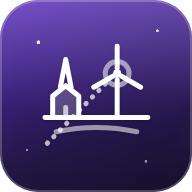
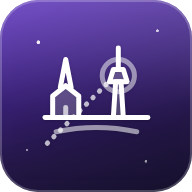
Add files via upload

Changed region(s): [[0.4375, 0.2188, 0.75, 0.625], [0.4062, 0.5625, 0.4375, 0.5938], [0.3438, 0.625, 0.375, 0.6562]]

diff --git a/hz-index.html b/hz-index.html
@@ -10,7 +10,7 @@
 <link rel="manifest" href="./manifest.json">
 <link rel="apple-touch-icon" href="./icon-180.png">
 <title>HorizontWahr</title>
-<meta name="description" content="HorizontWahr – Was ist das da hinten? Türme, Windräder, Kirchen, Orte und Berge im Kamerabild, mit Entfernung und Richtung.">
+<meta name="description" content="HorizontWahr – Was ist das da hinten? Türme, Kirchen, Mühlen, Orte und Berge im Kamerabild, mit Entfernung und Richtung.">
 <meta name="apple-mobile-web-app-capable" content="yes">
 <meta name="apple-mobile-web-app-status-bar-style" content="black-translucent">
 <meta name="apple-mobile-web-app-title" content="WahrZentrale">
@@ -170,7 +170,8 @@
   .hz-go{margin-left:4px;padding:6px 10px;font-size:12.5px}
   .hz-more{display:block;margin:10px auto 0}
   .hz-reset-row{display:flex;justify-content:flex-end;margin:-4px 0 12px}
-  .hz-reset-row .icon-btn{font-size:13.5px;font-weight:600;color:var(--sub-onbg)}</style>
+  .hz-reset-row .icon-btn{font-size:13.5px;font-weight:600;color:var(--sub-onbg)}
+  .hz-reset{margin:2px 0 12px}</style>
 <link rel="stylesheet" href="./wz-common.css">
 <link rel="stylesheet" href="./wz-unify.css">
 </head>
@@ -180,21 +181,22 @@
 <symbol id="wzi-home" viewBox="0 0 24 24"><path d="M4 11.5L12 4l8 7.5" fill="none" stroke="currentColor" stroke-width="1.8" stroke-linecap="round" stroke-linejoin="round"/><path d="M6 10.5V20h5v-5.5h2V20h5v-9.5" fill="none" stroke="currentColor" stroke-width="1.8" stroke-linejoin="round"/></symbol>
 <symbol id="wzi-close" viewBox="0 0 24 24"><g stroke="currentColor" stroke-width="2.2" stroke-linecap="round"><line x1="5" y1="5" x2="19" y2="19"/><line x1="19" y1="5" x2="5" y2="19"/></g></symbol>
 <symbol id="wzi-camera" viewBox="0 0 24 24"><g fill="none" stroke="currentColor" stroke-width="1.7" stroke-linejoin="round" stroke-linecap="round"><path d="M4 8.2h3.2L8.6 6h6.8l1.4 2.2H20v10.6H4z"/><circle cx="12" cy="13" r="3.3"/></g></symbol>
-<symbol id="wzi-horizon" viewBox="0 0 24 24"><g fill="none" stroke="currentColor" stroke-width="1.7" stroke-linecap="round" stroke-linejoin="round"><path d="M2.5 16.5h19"/><path d="M5 20c4.5-1 9.5-1 14 0" opacity=".6"/><path d="M7 16.5v-4l2-1.6 2 1.6v4M8.2 10.6L9 6.5l.8 4.1"/><path d="M16.5 16.5V9.5"/><circle cx="16.5" cy="8.6" r=".8" fill="currentColor" stroke="none"/><path d="M16.5 7.7V4M15.8 9.1l-3 1.7M17.2 9.1l3 1.7"/></g></symbol>
+<symbol id="wzi-horizon" viewBox="0 0 24 24"><g fill="none" stroke="currentColor" stroke-width="1.7" stroke-linecap="round" stroke-linejoin="round"><path d="M2.5 16.5h19"/><path d="M5 20c4.5-1 9.5-1 14 0" opacity=".6"/><path d="M6.5 16.5v-4l2-1.6 2 1.6v4M7.7 10.6l.8-4.1.8 4.1"/><path d="M16.5 16.5V9.6M15.6 9.6h1.8l-.9-4.1z"/><path d="M16.5 5.5V3"/><circle cx="16.5" cy="7.6" r="3" opacity=".5"/></g></symbol>
 <symbol id="wzi-radar" viewBox="0 0 24 24"><g fill="none" stroke="currentColor" stroke-width="1.7" stroke-linecap="round" stroke-linejoin="round"><circle cx="12" cy="12" r="9"/><circle cx="12" cy="12" r="5" opacity=".6"/><path d="M12 12l6-6"/><circle cx="15.5" cy="15" r="1" fill="currentColor" stroke="none"/><circle cx="8" cy="9" r="1" fill="currentColor" stroke="none"/></g></symbol>
 <symbol id="wzi-list" viewBox="0 0 24 24"><g fill="none" stroke="currentColor" stroke-width="1.7" stroke-linecap="round" stroke-linejoin="round"><path d="M9 6.5h11M9 12h11M9 17.5h11"/><circle cx="4.5" cy="6.5" r="1" fill="currentColor" stroke="none"/><circle cx="4.5" cy="12" r="1" fill="currentColor" stroke="none"/><circle cx="4.5" cy="17.5" r="1" fill="currentColor" stroke="none"/></g></symbol>
 <symbol id="wzi-info" viewBox="0 0 24 24"><g fill="none" stroke="currentColor" stroke-width="1.8" stroke-linecap="round" stroke-linejoin="round"><circle cx="12" cy="12" r="8.5"/><line x1="12" y1="11" x2="12" y2="16.5"/><circle cx="12" cy="7.7" r="1" fill="currentColor" stroke="none"/></g></symbol>
 <symbol id="wzi-lock" viewBox="0 0 24 24"><g fill="none" stroke="currentColor" stroke-width="1.7" stroke-linecap="round" stroke-linejoin="round"><rect x="5" y="10.5" width="14" height="10" rx="2"/><path d="M8 10.5V7a4 4 0 018 0v3.5"/><circle cx="12" cy="15" r="1.3" fill="currentColor" stroke="none"/></g></symbol>
 <symbol id="wzi-crosshair" viewBox="0 0 24 24"><g fill="none" stroke="currentColor" stroke-width="1.7" stroke-linecap="round" stroke-linejoin="round"><circle cx="12" cy="12" r="6.5"/><path d="M12 2.5v4M12 17.5v4M2.5 12h4M17.5 12h4"/><circle cx="12" cy="12" r=".9" fill="currentColor" stroke="none"/></g></symbol>
-<symbol id="wzi-turbine" viewBox="0 0 24 24"><g fill="none" stroke="currentColor" stroke-width="1.7" stroke-linecap="round" stroke-linejoin="round"><path d="M12 21V11"/><circle cx="12" cy="9.8" r="1.1"/><path d="M12 8.7V2.8M11 10.4l-5.2 3M13 10.4l5.2 3"/><path d="M9 21h6"/></g></symbol>
 <symbol id="wzi-tower" viewBox="0 0 24 24"><g fill="none" stroke="currentColor" stroke-width="1.7" stroke-linecap="round" stroke-linejoin="round"><path d="M9 21l1.6-11h2.8L15 21"/><path d="M10.2 13h3.6"/><rect x="9.6" y="6.5" width="4.8" height="3.5" rx=".8"/><path d="M12 6.5V2.5"/><path d="M7.5 21h9"/></g></symbol>
 <symbol id="wzi-church" viewBox="0 0 24 24"><g fill="none" stroke="currentColor" stroke-width="1.7" stroke-linecap="round" stroke-linejoin="round"><path d="M6 21v-7l6-4.5 6 4.5v7z"/><path d="M12 9.5V2.5M10 4.5h4"/><path d="M10.2 21v-3.6a1.8 1.8 0 0 1 3.6 0V21"/></g></symbol>
 <symbol id="wzi-peak" viewBox="0 0 24 24"><g fill="none" stroke="currentColor" stroke-width="1.7" stroke-linecap="round" stroke-linejoin="round"><path d="M2.5 20l6.5-11 3.5 5.5 2.5-3.5 6.5 9z"/><path d="M7.1 11.3l1.9 1.6 1.7-1.3" opacity=".7"/></g></symbol>
 <symbol id="wzi-lighthouse" viewBox="0 0 24 24"><g fill="none" stroke="currentColor" stroke-width="1.7" stroke-linecap="round" stroke-linejoin="round"><path d="M9 21l1.4-11h3.2L15 21"/><path d="M9.8 10h4.4M10 6.5h4v3.5h-4z"/><path d="M12 6.5V4.5M6 21h12"/><path d="M5 7.5l3-1M19 7.5l-3-1" opacity=".7"/></g></symbol>
 <symbol id="wzi-castle" viewBox="0 0 24 24"><g fill="none" stroke="currentColor" stroke-width="1.7" stroke-linecap="round" stroke-linejoin="round"><path d="M4 21V9h3v2h2.5V9h5v2H17V9h3v12z"/><path d="M10 21v-4a2 2 0 0 1 4 0v4"/><path d="M12 9V4l3 1.2-3 1.2" /></g></symbol>
 <symbol id="wzi-town" viewBox="0 0 24 24"><g fill="none" stroke="currentColor" stroke-width="1.7" stroke-linecap="round" stroke-linejoin="round"><path d="M3 21v-7l4-3 4 3v7M11 21V8.5l5-3.5 5 3.5V21"/><path d="M3 21h18"/><path d="M14.5 11h3M14.5 14.5h3" opacity=".7"/></g></symbol>
-<symbol id="wzi-chimney" viewBox="0 0 24 24"><g fill="none" stroke="currentColor" stroke-width="1.7" stroke-linecap="round" stroke-linejoin="round"><path d="M9 21l1.2-15h3.6L15 21"/><path d="M10 9.5h4M9.6 15h4.8" opacity=".7"/><path d="M13 4c1-1.5 3-1.2 3.5-2.5" opacity=".6"/><path d="M7 21h10"/></g></symbol>
-<symbol id="wzi-watertower" viewBox="0 0 24 24"><g fill="none" stroke="currentColor" stroke-width="1.7" stroke-linecap="round" stroke-linejoin="round"><path d="M7.5 8.5a4.5 3 0 0 0 9 0V6.5h-9z"/><path d="M7.5 6.5l4.5-3 4.5 3"/><path d="M10 11.2L9 21M14 11.2l1 9.8M9.6 16h4.8"/></g></symbol>
+<symbol id="wzi-mill" viewBox="0 0 24 24"><g fill="none" stroke="currentColor" stroke-width="1.7" stroke-linecap="round" stroke-linejoin="round"><path d="M9 21l1.2-8.5h3.6L15 21"/><path d="M8.5 21h7"/><circle cx="12" cy="10" r="1"/><path d="M12 10L7 5M12 10l5-5M12 10l-5 5M12 10l5 5" /><path d="M7 5l-1.4 1.4M17 5l1.4 1.4" opacity=".7"/></g></symbol>
+<symbol id="wzi-viewpoint" viewBox="0 0 24 24"><g fill="none" stroke="currentColor" stroke-width="1.7" stroke-linecap="round" stroke-linejoin="round"><path d="M3 20.5h18"/><path d="M5 20.5l5-8 3 4 2-2.5 4 6.5"/><circle cx="16.5" cy="6.5" r="2.5"/><path d="M16.5 2.5v1M20.5 6.5h-1M13.5 4l.7.7" opacity=".7"/></g></symbol>
+<symbol id="wzi-landmark" viewBox="0 0 24 24"><g fill="none" stroke="currentColor" stroke-width="1.7" stroke-linecap="round" stroke-linejoin="round"><path d="M12 3l1.9 3.9 4.3.6-3.1 3 .7 4.3-3.8-2-3.8 2 .7-4.3-3.1-3 4.3-.6z"/><path d="M6 21h12M8 21v-3h8v3"/></g></symbol>
+<symbol id="wzi-highrise" viewBox="0 0 24 24"><g fill="none" stroke="currentColor" stroke-width="1.7" stroke-linecap="round" stroke-linejoin="round"><path d="M5 21V8l5-3v16M10 21V3.5l6 3V21M16 21v-9h3v9"/><path d="M3 21h18"/><path d="M7 11h1M7 14h1M12.5 8h1M12.5 11h1M12.5 14h1" opacity=".7"/></g></symbol>
 <symbol id="wzi-refresh" viewBox="0 0 24 24"><g fill="none" stroke="currentColor" stroke-width="1.7" stroke-linecap="round" stroke-linejoin="round"><path d="M19.5 12a7.5 7.5 0 1 1-2.2-5.3"/><path d="M19.5 4v4.5H15"/></g></symbol>
 <symbol id="wzi-warning" viewBox="0 0 24 24"><g fill="none" stroke="currentColor" stroke-width="1.8" stroke-linejoin="round" stroke-linecap="round"><path d="M12 3.5L21.5 20h-19z"/><line x1="12" y1="9.2" x2="12" y2="14.2"/><circle cx="12" cy="17" r="0.9" fill="currentColor" stroke="none"/></g></symbol>
 <symbol id="wzi-compass" viewBox="0 0 24 24"><circle cx="12" cy="12" r="9" fill="none" stroke="currentColor" stroke-width="1.6"/><path d="M15.5 8.5l-2.2 5.2-5.2 2.2 2.2-5.2z" fill="currentColor"/><circle cx="12" cy="12" r="1.1" fill="var(--wzi-bg,#fff)"/></symbol>
@@ -208,7 +210,7 @@
   <header class="wz-hero">
     <div class="logo-badge"><img class="wz-logo-light" src="./hz-icon-192.png" alt="HorizontWahr Logo" width="84" height="84" decoding="sync" fetchpriority="high"></div>
     <h1>HorizontWahr</h1>
-    <p>Was ist das da hinten? Türme, Windräder, Kirchen, Orte und Berge – mit Entfernung und Richtung.</p>
+    <p>Was ist das da hinten? Türme, Kirchen, Mühlen, Orte und Berge – mit Entfernung und Richtung.</p>
   </header>
 
   <div class="tabs" role="tablist">
@@ -231,7 +233,7 @@
       </div>
       <h3>Was soll erscheinen?</h3>
       <div class="chip-row" id="hzCats" aria-label="Arten"></div>
-      <div class="hz-reset-row"><button type="button" class="icon-btn" id="hzReset"><svg class="wzi" aria-hidden="true"><use href="#wzi-refresh"></use></svg> Auswahl zurücksetzen</button></div>
+      <button type="button" class="cta slim hz-reset" id="hzReset"><svg class="wzi" aria-hidden="true"><use href="#wzi-close"></use></svg> Auswahl zurücksetzen</button>
       <button class="cta primary" id="hzLoad"><svg class="wzi" aria-hidden="true"><use href="#wzi-refresh"></use></svg> Umgebung laden</button>
       <p class="muted small" id="hzStatus" role="status" style="margin:10px 0 0"></p>
     </div>
@@ -480,19 +482,23 @@ function camStop(stream, video){
   function toast(t){ if(window.wzToast) wzToast(t); }
 
   var CATS = [
-    { id: "turm", name: "Türme & Masten", ic: "tower", col: "#B9A6F5" },
-    { id: "wind", name: "Windräder", ic: "turbine", col: "#E6DDF7" },
+    { id: "turm", name: "Türme", ic: "tower", col: "#B9A6F5" },
     { id: "kirche", name: "Kirchen", ic: "church", col: "#FFD27A" },
     { id: "ort", name: "Orte", ic: "town", col: "#8E75F0" },
     { id: "berg", name: "Berge & Hügel", ic: "peak", col: "#C3B2F0" },
     { id: "leucht", name: "Leuchttürme", ic: "lighthouse", col: "#FFE7A8" },
-    { id: "burg", name: "Burgen & Schlösser", ic: "castle", col: "#D8CCFA" }
+    { id: "burg", name: "Burgen & Schlösser", ic: "castle", col: "#D8CCFA" },
+    { id: "muehle", name: "Mühlen", ic: "mill", col: "#E6DDF7" },
+    { id: "aussicht", name: "Aussichtspunkte", ic: "viewpoint", col: "#FFE7A8" },
+    { id: "sehens", name: "Sehenswürdigkeiten", ic: "landmark", col: "#FFD27A" },
+    { id: "hoch", name: "Hochhäuser & Flughäfen", ic: "highrise", col: "#C3B2F0" }
   ];
   var CAT = {}; CATS.forEach(function(c){ CAT[c.id] = c; });
 
   var cfg = load(LS_CFG, {}) || {};
   if([5, 10, 20, 30].indexOf(cfg.r) === -1) cfg.r = 10;
-  if(!Array.isArray(cfg.cats)) cfg.cats = ["turm", "wind", "kirche", "ort", "berg", "leucht", "burg"];
+  if(!Array.isArray(cfg.cats)) cfg.cats = [];
+  cfg.cats = cfg.cats.filter(function(id, i, a){ return CAT[id] && a.indexOf(id) === i; });
   if(!cfg.cal) cfg.cal = { yaw: 0, fov: 68 };
   if(!(cfg.eye > 0)) cfg.eye = 1.6;
   function saveCfg(){ save(LS_CFG, cfg); }
@@ -522,9 +528,9 @@ function camStop(stream, video){
     saveCfg(); paintCats(); renderRadar(); if(current === "liste") renderList();
   });
   paintCats();
-  /* Auswahl auf den Anfangszustand zurücksetzen (Umkreis 10 km, alle Arten) */
+  /* Auswahl auf den Anfangszustand zurücksetzen (Umkreis 10 km, keine Art gewählt) */
   $("hzReset").addEventListener("click", function(){
-    cfg.r = 10; cfg.cats = CATS.map(function(c){ return c.id; }); saveCfg();
+    cfg.r = 10; cfg.cats = []; saveCfg();
     paintRadius(); paintCats(); renderRadar(); if(current === "liste") renderList();
     toast("Auswahl zurückgesetzt");
   });
@@ -539,7 +545,7 @@ function camStop(stream, video){
   function enrich(){
     if(!data) return [];
     var g0 = data.own != null ? data.own : 0, eyeAbs = g0 + eye();
-    return data.items.filter(function(it){ return cfg.cats.indexOf(it.c) !== -1; }).map(function(it){
+    return data.items.filter(function(it){ return CAT[it.c] && it.t !== "Sendemast" && cfg.cats.indexOf(it.c) !== -1; }).map(function(it){
       var d = Math.max(1, hav(data.lat, data.lon, it.la, it.lo)), az = bear(data.lat, data.lon, it.la, it.lo);
       var g = it.c === "berg" && it.x != null ? it.x : (it.e != null ? it.e : g0), h = it.h || 0, drop = d * d / (2 * REFF);
       return { it: it, d: d, az: az, altTop: Math.atan2(g + h - eyeAbs - drop, d) / D2R, altBase: Math.atan2(g - eyeAbs - drop, d) / D2R, hid: hiddenAt(d), g: g };
@@ -550,21 +556,27 @@ function camStop(stream, video){
   function q(r, la, lo){
     var a = "(around:" + r + "," + la.toFixed(5) + "," + lo.toFixed(5) + ")", parts = [];
     var C = {
-      turm: '(nwr["man_made"="tower"]["tower:type"!~"^(lighting|cooling|minaret)$"]' + a + ';nwr["man_made"="mast"]["tower:type"="communication"]' + a + ';nwr["man_made"="water_tower"]' + a + ';nwr["man_made"="chimney"]' + a + ';);out center 250;',
-      wind: 'nwr["power"="generator"]["generator:source"="wind"]' + a + ';out center 500;',
+      turm: '(nwr["man_made"="tower"]["tower:type"!~"^(lighting|cooling|minaret|observation)$"]' + a + ';nwr["man_made"="water_tower"]' + a + ';nwr["man_made"="chimney"]' + a + ';);out center 250;',
       kirche: '(nwr["building"="church"]' + a + ';nwr["building"="cathedral"]' + a + ';);out center 250;',
       ort: '(node["place"="city"]' + a + ';node["place"="town"]' + a + ';node["place"="village"]' + a + ';);out 300;',
       berg: '(node["natural"="peak"]' + a + ';node["natural"="hill"]' + a + ';);out 150;',
       leucht: 'nwr["man_made"="lighthouse"]' + a + ';out center 60;',
-      burg: 'nwr["historic"="castle"]' + a + ';out center 100;'
+      burg: 'nwr["historic"="castle"]' + a + ';out center 100;',
+      muehle: '(nwr["man_made"="windmill"]' + a + ';nwr["man_made"="watermill"]' + a + ';);out center 120;',
+      aussicht: '(nwr["man_made"="tower"]["tower:type"="observation"]' + a + ';node["tourism"="viewpoint"]' + a + ';);out center 120;',
+      sehens: '(nwr["tourism"="attraction"]' + a + ';nwr["historic"="monument"]' + a + ';);out center 150;',
+      hoch: '(nwr["height"~"^([4-9][0-9]|[1-9][0-9][0-9])([.,][0-9]+)?( ?m)?$"]["building"]' + a + ';nwr["aeroway"="aerodrome"]' + a + ';);out center 150;'
     };
     CATS.forEach(function(c){ if(cfg.cats.indexOf(c.id) !== -1) parts.push(C[c.id]); });
-    return "[out:json][timeout:40];" + parts.join("");
+    return "[out:json][timeout:25];" + parts.join("");
   }
   function hnum(v){ if(v == null) return null; var m = String(v).replace(",", ".").match(/[0-9]+(\.[0-9]+)?/); if(!m) return null; var n = parseFloat(m[0]); if(/ft|'/.test(String(v))) n *= 0.3048; return n > 0 && n < 900 ? n : null; }
   function classify(el){
     var t = el.tags || {}, mm = t.man_made, tt = t["tower:type"];
-    if(t.power === "generator") return { c: "wind", t: "Windrad", dh: 150 };
+    if(t.aeroway === "aerodrome") return { c: "hoch", t: /international|public/i.test(t["aerodrome:type"] || "") || t.iata ? "Flughafen" : "Flugplatz", dh: 0 };
+    if(mm === "windmill") return { c: "muehle", t: "Windmühle", dh: 20 };
+    if(mm === "watermill") return { c: "muehle", t: "Wassermühle", dh: 10 };
+    if(t.tourism === "viewpoint" && !mm) return { c: "aussicht", t: "Aussichtspunkt", dh: 0 };
     if(t.place) return { c: "ort", t: t.place === "city" ? "Stadt" : t.place === "town" ? "Kleinstadt" : "Dorf", dh: 0 };
     if(t.natural === "peak" || t.natural === "hill") return { c: "berg", t: t.natural === "peak" ? "Gipfel" : "Hügel", dh: 0 };
     if(mm === "lighthouse") return { c: "leucht", t: "Leuchtturm", dh: 30 };
@@ -572,14 +584,16 @@ function camStop(stream, video){
     if(t.building === "church" || t.building === "cathedral") return { c: "kirche", t: t.building === "cathedral" ? "Dom / Kathedrale" : "Kirche", dh: t.building === "cathedral" ? 70 : 40 };
     if(mm === "water_tower") return { c: "turm", t: "Wasserturm", dh: 35 };
     if(mm === "chimney") return { c: "turm", t: "Schornstein", dh: 60 };
-    if(mm === "mast") return { c: "turm", t: "Sendemast", dh: 60 };
     if(mm === "tower"){
       if(tt === "communication") return { c: "turm", t: "Funkturm", dh: 120 };
-      if(tt === "observation") return { c: "turm", t: "Aussichtsturm", dh: 30 };
+      if(tt === "observation") return { c: "aussicht", t: "Aussichtsturm", dh: 30 };
       if(tt === "bell_tower") return { c: "turm", t: "Glockenturm", dh: 35 };
       if(tt === "defensive" || tt === "watchtower") return { c: "turm", t: "Wehrturm", dh: 20 };
       return { c: "turm", t: "Turm", dh: 30 };
     }
+    if(t.historic === "monument") return { c: "sehens", t: "Denkmal", dh: 15 };
+    if(t.tourism === "attraction") return { c: "sehens", t: "Sehenswürdigkeit", dh: 15 };
+    if(t.building && hnum(t.height) >= 40) return { c: "hoch", t: "Hochhaus", dh: 40 };
     return null;
   }
   function parse(json, la, lo){
@@ -669,7 +683,7 @@ function camStop(stream, video){
   }
   $("hzLoad").addEventListener("click", function(){
     if(loading){ loadCtl.stop = true; try { if(loadCtl.ctrl) loadCtl.ctrl.abort(); } catch(e){} status("Wird abgebrochen …"); return; }
-    if(cfg.cats.length === 0){ status("Bitte mindestens eine Art auswählen."); return; }
+    if(cfg.cats.length === 0){ status("Bitte zuerst oben auswählen, was erscheinen soll."); return; }
     askOnce().then(function(ok){
       if(!ok) return;
       loadCtl = { stop: false, ctrl: null }; loadUi(true);
@@ -693,7 +707,10 @@ function camStop(stream, video){
         paintStatus(); renderRadar(); toast(r.items.length + " Objekte geladen");
       }).catch(function(e){
         if(e && e.cancel){ if(data) paintStatus(); status("Abgebrochen." + (data ? " Die zuletzt geladene Umgebung bleibt erhalten." : "")); return; }
-        status((e && e.name === "AbortError") ? "Zeitüberschreitung – bitte später noch einmal versuchen." : (e && e.message && /Standort/.test(e.message) ? e.message : "Laden nicht möglich (" + ((e && e.message) || "Fehler") + "). Bitte später noch einmal versuchen."));
+        var busy = e && (e.name === "AbortError" || e.name === "TypeError" || /load failed|failed to fetch|networkerror|HTTP (429|5\d\d)|Overpass|nicht erreichbar/i.test(e.message || ""));
+        status(e && e.message && /Standort/.test(e.message) ? e.message : busy
+          ? "Der Kartenserver ist gerade überlastet oder nicht erreichbar. Bitte in ein paar Minuten noch einmal versuchen – mit kleinerem Umkreis klappt es meist schneller."
+          : "Laden nicht möglich (" + ((e && e.message) || "Fehler") + "). Bitte später noch einmal versuchen.");
       }).then(function(){ loadUi(false); });
     });
   });
@@ -970,7 +987,7 @@ function camStop(stream, video){
   var onb = wzOnboarding({
     key: LS_ONB,
     slides: [
-      { icon: "horizon", title: "Willkommen bei HorizontWahr", text: "Was ist das da hinten? Halte die Kamera in die Landschaft – Türme, Windräder, Kirchen, Orte und Berge werden mit Namen und Entfernung beschriftet." },
+      { icon: "horizon", title: "Willkommen bei HorizontWahr", text: "Was ist das da hinten? Halte die Kamera in die Landschaft – Türme, Kirchen, Mühlen, Orte, Berge und Sehenswürdigkeiten werden mit Namen und Entfernung beschriftet." },
       { icon: "radar", title: "Einmal laden, überall schauen", text: "Die Umgebung wird einmal aus OpenStreetMap geladen und auf dem Gerät gemerkt. Danach geht der Rundblick auch offline." },
       { icon: "crosshair", title: "Forschen mit dem Fadenkreuz", text: "Im Fadenkreuz siehst du Entfernung, Höhe und wie viel die Erdkrümmung verdeckt. „Ausrichten“ gleicht den Kompass an einem bekannten Objekt an." },
       { icon: "lock", title: "Privat geht vor", text: "Dein Standort wird nur beim Laden gesendet – erst nach deiner Zustimmung. Das Kamerabild bleibt auf dem Gerät und wird nie gespeichert." }

diff --git a/wz-apps.js b/wz-apps.js
@@ -35,7 +35,7 @@
     pk: '<path d="M11 3l1.7 4.6L17.3 9.3l-4.6 1.7L11 15.6l-1.7-4.6L4.7 9.3l4.6-1.7z"/><path d="M18.4 14.2l.8 2.1 2.1.8-2.1.8-.8 2.1-.8-2.1-2.1-.8 2.1-.8zM6 16l.6 1.5 1.5.6-1.5.6L6 20.2l-.6-1.5-1.5-.6 1.5-.6z"/>',
     st: '<path d="M12.2 12.2a1.9 1.9 0 101.9-1.9c-2.2 0-4 1.8-4 4a6 6 0 006 6 8.2 8.2 0 000-16.4c-4.3 0-8 3-9.4 7.4"/>',
     bw: '<path d="M5 20v-5.5M9.7 20V8.5M14.3 20v-9M19 20V5" stroke-width="2.5"/>',
-    hz: '<path d="M2.5 17h19"/><path d="M5 20.5c4.5-1 9.5-1 14 0" opacity=".6"/><path d="M6 17v-4l2.2-1.8 2.2 1.8v4M7.4 11.3l.8-4.8.8 4.8"/><path d="M16.5 17V9.8"/><circle cx="16.5" cy="8.8" r=".9"/><path d="M16.5 7.9V3.8M15.7 9.3l-3.3 1.9M17.3 9.3l3.3 1.9"/>',
+    hz: '<path d="M2.5 17h19"/><path d="M5 20.5c4.5-1 9.5-1 14 0" opacity=".6"/><path d="M6 17v-4l2.2-1.8 2.2 1.8v4M7.4 11.3l.8-4.8.8 4.8"/><path d="M16.5 17V9.8M15.4 9.8h2.2l-1.1-4z"/><path d="M16.5 5.8V3"/>',
     mw: '<path d="M3.5 19.5h17M18.5 19.5V5.5"/><path d="M4.5 19.5L18.5 5.5" stroke-dasharray="0.1 2.6"/><path d="M9.5 19.5a5 5 0 0 0-1.4-3.5"/>',
     kl: '<path d="M3 20h18"/><path d="M3 18c1.8 0 2.6-1.6 4-1.6s1.7-10.4 3.4-10.4 1.7 9.2 3.2 9.2 1.8-4.2 3-4.2 1.7 6.4 4.4 6.4"/>',
     hinweise: '<rect x="8" y="2.5" width="8" height="19" rx="3"/><circle cx="12" cy="7.2" r="1.5"/><circle cx="12" cy="12" r="1.5"/><circle cx="12" cy="16.8" r="1.5"/>',
@@ -87,7 +87,7 @@
     pk: "<path d=\"M13 4l2.2 6.1L21.4 12l-6.2 2.1L13 20.2l-2.2-6.1L4.6 12l6.2-1.9z\" fill=\"currentColor\" fill-opacity=\".2\" stroke=\"none\"/><path d=\"M13 4l2.2 6.1L21.4 12l-6.2 2.1L13 20.2l-2.2-6.1L4.6 12l6.2-1.9z\"/><path d=\"M23.5 17.5l1 2.7 2.7 1-2.7 1-1 2.7-1-2.7-2.7-1 2.7-1z\" fill=\"currentColor\" stroke=\"none\" fill-opacity=\".85\"/><path d=\"M8 22.5l.6 1.6 1.6.6-1.6.6L8 26.9l-.6-1.6-1.6-.6 1.6-.6z\" fill=\"currentColor\" stroke=\"none\" fill-opacity=\".7\"/><circle cx=\"25\" cy=\"7\" r=\"1\" fill=\"currentColor\" stroke=\"none\"/><circle cx=\"27.5\" cy=\"12\" r=\".6\" fill=\"currentColor\" stroke=\"none\"/><circle cx=\"15\" cy=\"27\" r=\".7\" fill=\"currentColor\" stroke=\"none\"/>",
     st: "<path d=\"M16.4 15.2a1.9 1.9 0 1 0 1.9-1.9c-2.4 0-4.3 1.9-4.3 4.3a6.2 6.2 0 0 0 6.2 6.2 8.6 8.6 0 0 0 0-17.2c-4.6 0-8.5 3.2-9.8 7.6\"/><path d=\"M3 21c2.5-1.6 5-1.6 7.4.2\" opacity=\".7\"/><path d=\"M3 25.6c3.4-2 6.8-1.8 10 .6s6.4 2.6 10 .4\" opacity=\".55\"/><circle cx=\"18.3\" cy=\"15.2\" r=\".9\" fill=\"currentColor\" stroke=\"none\"/>",
     bw: "<path d=\"M5 27v-6M9.5 27V14M14 27v-9M18.5 27V9.5\" stroke-width=\"2.2\"/><path d=\"M5 18.5v-1M9.5 11.5v-1M14 15.5v-1M18.5 7v-1\" stroke-width=\"2.2\" opacity=\".55\"/><path d=\"M25.6 22.5V6.5l3.6-1.2\" /><ellipse cx=\"23.6\" cy=\"22.8\" rx=\"2.4\" ry=\"1.9\" transform=\"rotate(-18 23.6 22.8)\" fill=\"currentColor\" fill-opacity=\".2\" stroke=\"none\"/><ellipse cx=\"23.6\" cy=\"22.8\" rx=\"2.4\" ry=\"1.9\" transform=\"rotate(-18 23.6 22.8)\"/>",
-    hz: "<path d=\"M3.2 28.2L18.6 12.4\" stroke-dasharray=\"0.1 2.3\" opacity=\".7\"/><path d=\"M4.6 21.5v-5.6l3.4-2.7 3.4 2.7v5.6z\" fill=\"currentColor\" fill-opacity=\".2\" stroke=\"none\"/><path d=\"M4.6 21.5v-5.6l3.4-2.7 3.4 2.7v5.6\"/><path d=\"M6.6 13.6L8 6.4l1.4 7.2\"/><path d=\"M8 21.5v-2.6\" opacity=\".7\"/><path d=\"M21.4 21.5V11.6\"/><circle cx=\"21.4\" cy=\"10\" r=\"1.05\" fill=\"currentColor\" stroke=\"none\"/><path d=\"M21.4 8.7V2.9M20.3 10.7l-5 2.9M22.5 10.7l5 2.9\"/><circle cx=\"21.4\" cy=\"10\" r=\"3.1\" opacity=\".55\"/><path d=\"M2.6 21.5h26.8\"/><path d=\"M5.5 25.2c7-1.5 14-1.5 21 0\" opacity=\".55\"/>",
+    hz: "<path d=\"M3.2 28.2L18.8 12.6\" stroke-dasharray=\"0.1 2.3\" opacity=\".7\"/><path d=\"M4.6 21.5v-5.6l3.4-2.7 3.4 2.7v5.6z\" fill=\"currentColor\" fill-opacity=\".2\" stroke=\"none\"/><path d=\"M4.6 21.5v-5.6l3.4-2.7 3.4 2.7v5.6\"/><path d=\"M6.6 13.6L8 6.4l1.4 7.2\"/><path d=\"M8 21.5v-2.6\" opacity=\".7\"/><path d=\"M20.4 21.5l.6-9.3h1.4l.6 9.3\" fill=\"currentColor\" fill-opacity=\".2\"/><path d=\"M19.4 12.2h4.6l-1-3.2h-2.6z\" fill=\"currentColor\" fill-opacity=\".2\"/><path d=\"M21.7 9V3.4\"/><circle cx=\"21.7\" cy=\"10.6\" r=\"4.2\" opacity=\".5\"/><path d=\"M2.6 21.5h26.8\"/><path d=\"M5.5 25.2c7-1.5 14-1.5 21 0\" opacity=\".55\"/>",
     mw: "<path d=\"M5 25.5L25.5 7.5v18z\" fill=\"currentColor\" fill-opacity=\".2\" stroke=\"none\"/><path d=\"M5 25.5L25.5 7.5\" stroke-dasharray=\"0.1 2.3\"/><path d=\"M3.5 25.5h25\"/><path d=\"M25.5 25.5V7.5\"/><path d=\"M25.5 12h-1.8M25.5 16.5h-2.6M25.5 21h-1.8\" opacity=\".75\"/><path d=\"M11.4 25.5a6.4 6.4 0 0 0-1.6-4.2\"/><circle cx=\"25.5\" cy=\"7.5\" r=\"1.4\" fill=\"currentColor\" stroke=\"none\"/><circle cx=\"5\" cy=\"25.5\" r=\"1.1\" fill=\"currentColor\" stroke=\"none\"/><rect x=\"6\" y=\"4.2\" width=\"11\" height=\"4.4\" rx=\"2.2\"/><circle cx=\"11.5\" cy=\"6.4\" r=\"1\" fill=\"currentColor\" stroke=\"none\"/><path d=\"M9.3 4.2v4.4M13.7 4.2v4.4\" opacity=\".55\"/>",
     kl: "<path d=\"M4 26.5h24.5\" opacity=\".7\"/><path d=\"M4 26.5V6\" opacity=\".45\"/><path d=\"M4 24.5c2.6 0 3.6-2.4 5.6-2.4s2.4-13.9 4.6-13.9 2.3 12.3 4.3 12.3 2.4-5.6 4-5.6 2.3 8.6 6 8.6v3h-24.5z\" fill=\"currentColor\" fill-opacity=\".2\" stroke=\"none\"/><path d=\"M4 24.5c2.6 0 3.6-2.4 5.6-2.4s2.4-13.9 4.6-13.9 2.3 12.3 4.3 12.3 2.4-5.6 4-5.6 2.3 8.6 6 8.6\"/><path d=\"M14.2 5.6v20.9\" stroke-dasharray=\"0.1 2.3\" opacity=\".7\"/><path d=\"M12.6 3.6l1.6 2 1.6-2\" /><circle cx=\"22.5\" cy=\"15\" r=\".9\" fill=\"currentColor\" stroke=\"none\" opacity=\".8\"/>"
   };
@@ -101,7 +101,7 @@
     { id: "zh", name: "Sternenhimmel", area: "himmel", href: "sternewahr-index.html", sub: "Live-Sternenhimmel mit Zeitreise", kw: "zeithimmel sterne sternbild planeten zeitreise sternenhimmel live kamera geburtsnacht" },
     { id: "as", name: "AstroWahr", area: "himmel", href: "as-index.html", sub: "Astronomie, Astrologie und Tarot", kw: "horoskop astrologie tarot sonnenzeiten mondphase sternzeichen planeten" },
     { id: "kw", name: "KompassWahr", area: "himmel", href: "kw-index.html", sub: "Kompass mit Kamera-Übersicht", kw: "kompass richtung norden wegpunkte umfeld orte kamera" },
-    { id: "hz", name: "HorizontWahr", area: "himmel", href: "hz-index.html", sub: "Was ist das da hinten am Horizont?", kw: "horizont rundblick turm windrad kirche berg ort entfernung kamera erdkrümmung sichtweite aussicht" },
+    { id: "hz", name: "HorizontWahr", area: "himmel", href: "hz-index.html", sub: "Was ist das da hinten am Horizont?", kw: "horizont rundblick turm kirche mühle berg ort aussicht sehenswürdigkeit hochhaus flughafen entfernung kamera erdkrümmung sichtweite" },
     { id: "wk", name: "NaviWahr", area: "unterwegs", href: "wk-index.html", sub: "Fahrten und Fußwege aufzeichnen und navigieren", kw: "fahrt tour auto navigation route strecke kilometer fuß fussweg gehen spaziergang wandern fußgänger" },
     { id: "kg", name: "Keysglade", area: "unterwegs", href: "kg-index.html", sub: "Florida-Reisebegleiter", kw: "florida reise urlaub planer strand packliste budget usa" },
     { id: "wow", name: "WowarWahr", area: "unterwegs", href: "wow-index.html", sub: "Wo war ich? Reisen auf der Weltkarte", kw: "reisen weltkarte länder orte urlaub globus reisefilm" },

diff --git a/hinweise.html b/hinweise.html
@@ -283,11 +283,11 @@
 <div class="app-section">
   <div class="app-head"><img src="./hz-icon-192.png" alt="" width="36" height="36" decoding="sync"><h2>HorizontWahr</h2></div>
   <p class="app-tagline">Was ist das da hinten?</p>
-  <p>Beschriftet Türme, Windräder, Kirchen, Orte, Berge, Leuchttürme sowie Burgen und Schlösser im Kamerabild – mit Entfernung, Richtung, Höhe und dem durch die Erdkrümmung verdeckten Teil. Die Umgebung wird auf Tipp aus OpenStreetMap geladen und danach auf dem Gerät gemerkt.</p>
+  <p>Beschriftet Türme, Kirchen, Orte, Berge, Leuchttürme, Burgen und Schlösser, Mühlen, Aussichtspunkte, Sehenswürdigkeiten sowie Hochhäuser und Flughäfen im Kamerabild – mit Entfernung, Richtung, Höhe und dem durch die Erdkrümmung verdeckten Teil. Die Umgebung wird auf Tipp aus OpenStreetMap geladen und danach auf dem Gerät gemerkt.</p>
   <ul class="feature-list">
     <li>Umkreis 5, 10, 20 oder 30 km, Arten frei wählbar</li>
     <li>„Ausrichten“ an einem bekannten Objekt gleicht Kompassfehler aus</li>
-    <li>Liste nach Entfernung oder Richtung, Windräder als Windpark gebündelt</li>
+    <li>Liste nach Entfernung oder Richtung, durchsuchbar</li>
   </ul>
   <p class="footnote-sub" style="color:var(--sub);margin-top:10px">Nicht zur Navigation geeignet. Kompass, OpenStreetMap-Daten und angenommene Höhen können abweichen. Daten © OpenStreetMap-Mitwirkende (ODbL), Geländehöhen Open-Meteo.com (CC BY 4.0).</p>
 </div>

diff --git a/sw.js b/sw.js
@@ -23,7 +23,7 @@
    BUILD ändert sich dabei, damit Geräte die neue Liste übernehmen.
    ============================================================ */
 
-const BUILD = '02d58322e4';
+const BUILD = 'd2c778bdad';
 const CACHE = 'wahrzentrale-' + BUILD;
 const LIBS_CACHE = 'wahrzentrale-libs-v4';
 // Große Geodaten von WowarWahr: eigener Speicher, der Updates der App überdauert
